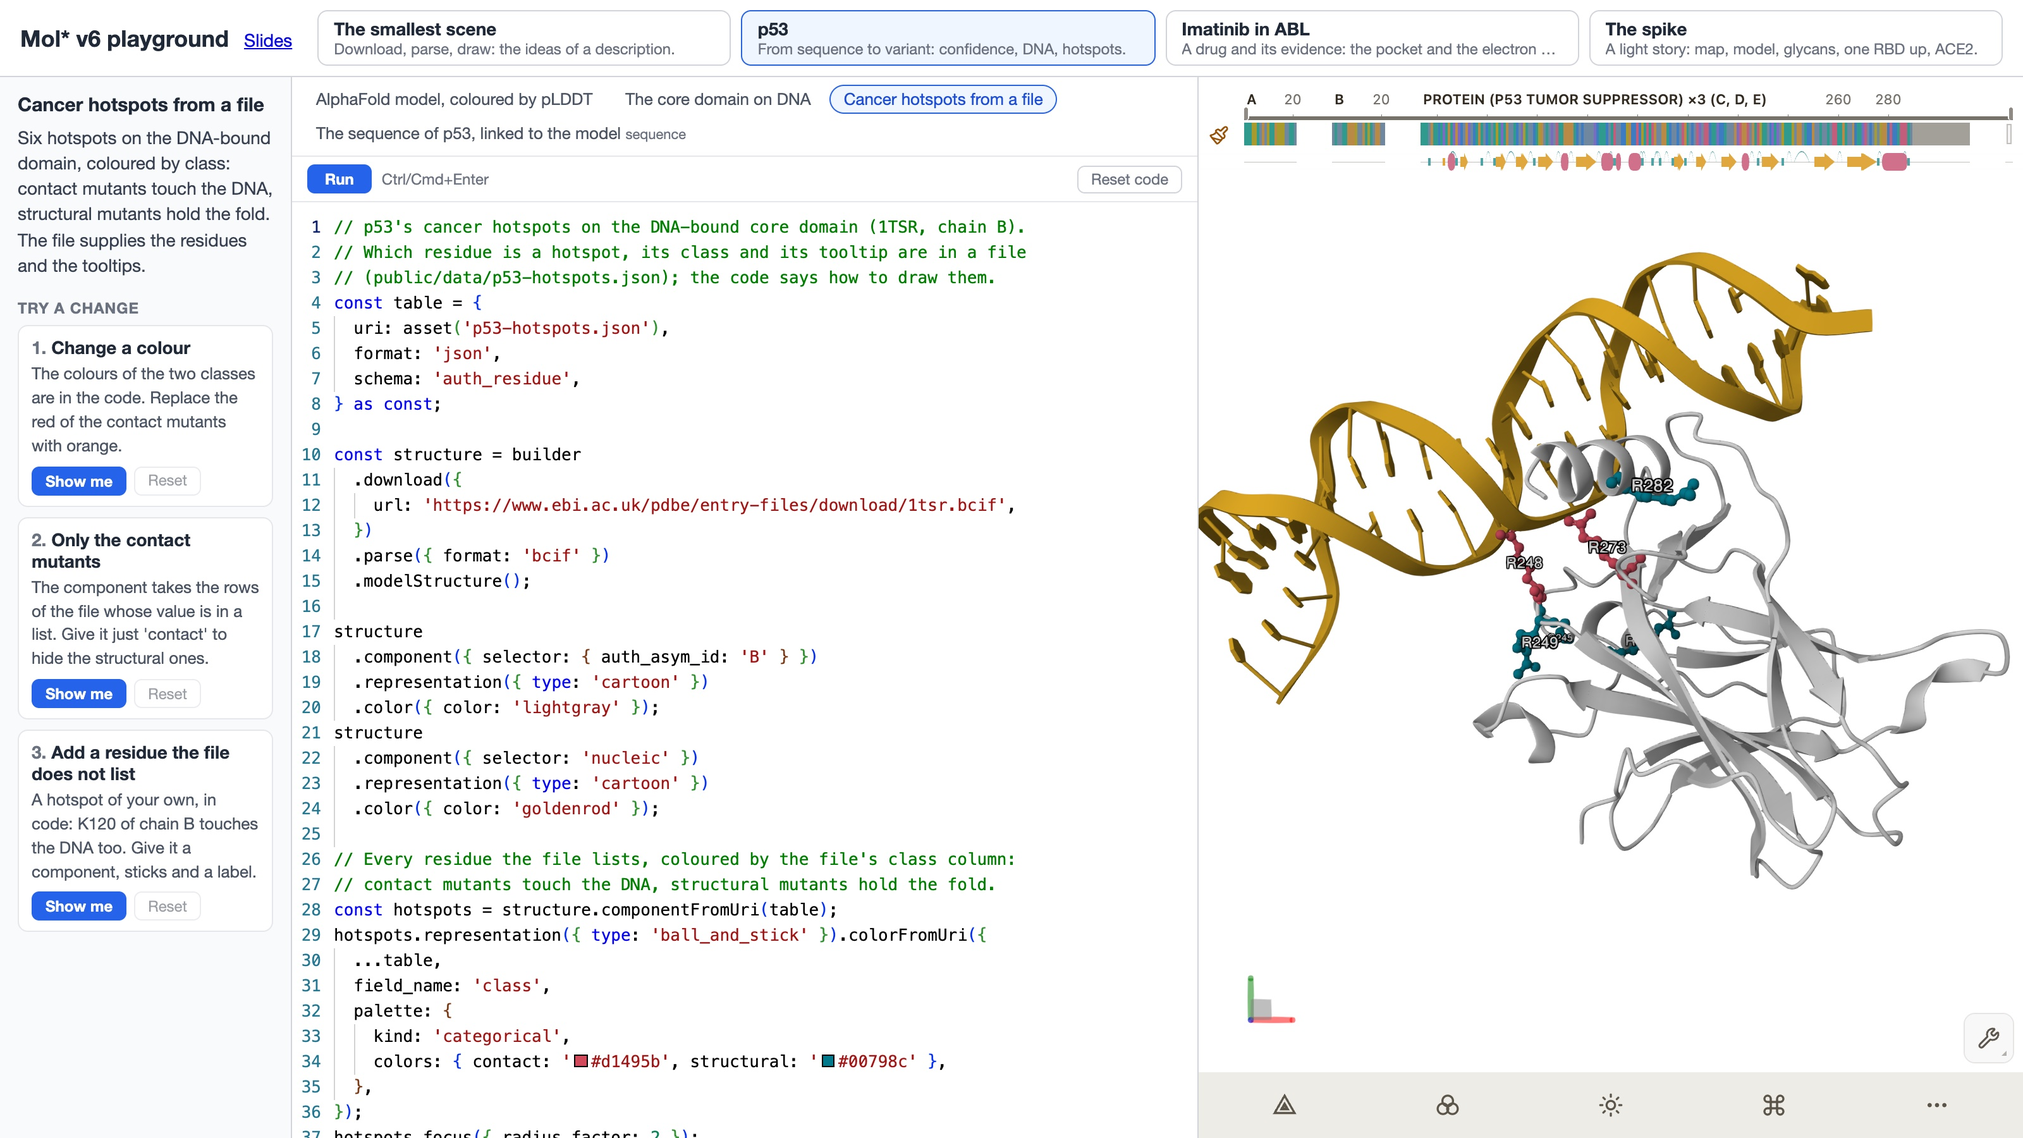
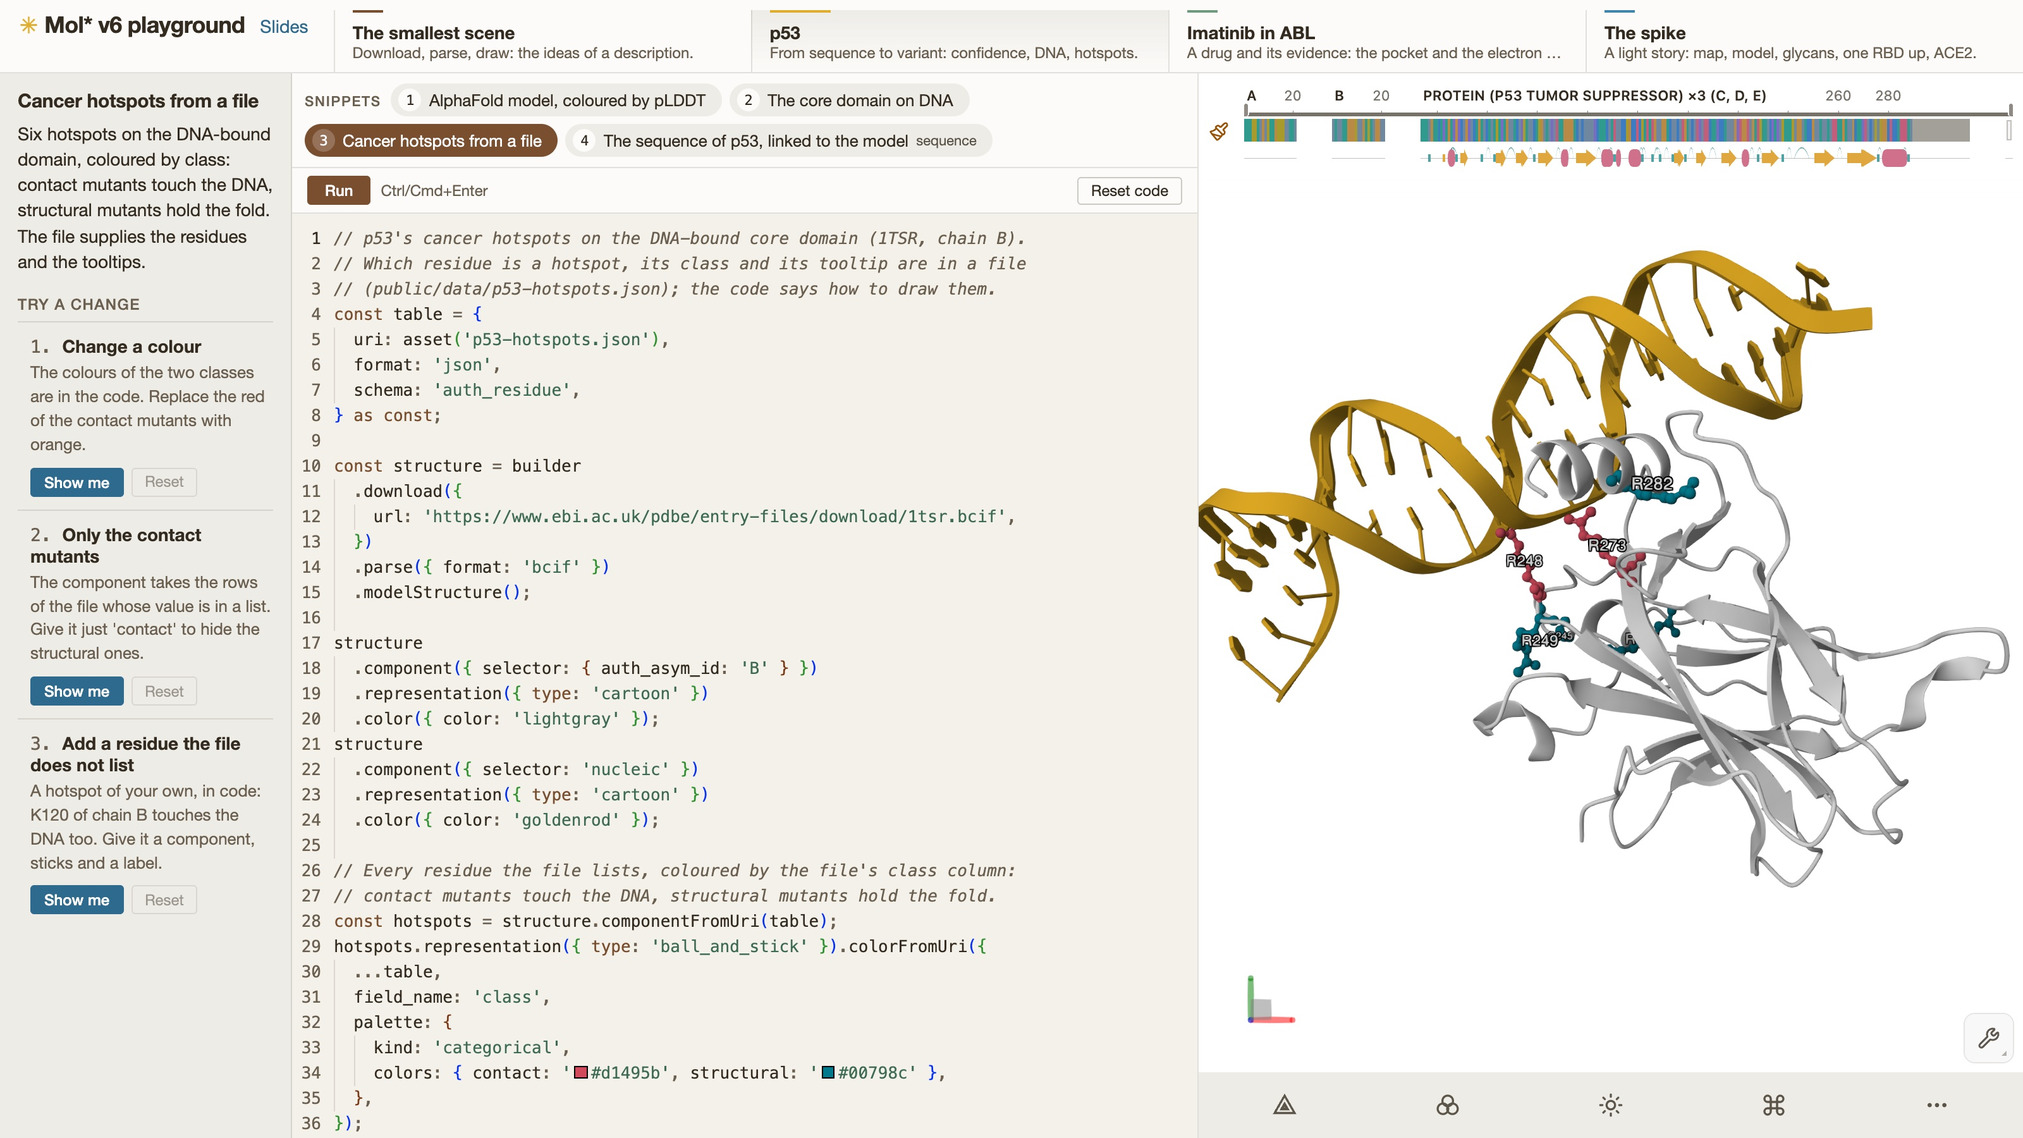
struct-bioinf-2026: drop the 'describe, don't click' narrative; clickable tour; new playground shot
- part 2 is 'How it fits together' and its diagram slide 'Data,
  descriptions, viewers'; the 'State, not steps' slide and the slogan in
  the opening, the Mol* v6 slide and the closing are gone
- the Prism tour's items take you to their step when clicked
- the playground screenshot shows the new style

diff --git a/examples/struct-bioinf-2026/src/slides/slides.css b/examples/struct-bioinf-2026/src/slides/slides.css
@@ -40,20 +40,20 @@
   --part-ink: var(--app-brown);
 }
 
-.reveal .slides > section[data-part='2'],
-.reveal .slides > section[data-part='3'] {
+.reveal .slides > section[data-part="2"],
+.reveal .slides > section[data-part="3"] {
   --part: var(--app-gold);
   --part-ink: var(--app-gold-text);
 }
 
-.reveal .slides > section[data-part='4'],
-.reveal .slides > section[data-part='5'] {
+.reveal .slides > section[data-part="4"],
+.reveal .slides > section[data-part="5"] {
   --part: var(--app-sage);
   --part-ink: var(--app-sage-text);
 }
 
-.reveal .slides > section[data-part='6'],
-.reveal .slides > section[data-part='7'] {
+.reveal .slides > section[data-part="6"],
+.reveal .slides > section[data-part="7"] {
   --part: var(--app-steel);
   --part-ink: var(--app-steel-text);
 }
@@ -125,7 +125,7 @@ body {
 /* The wordmark's spectrum as a thin rule under every slide title. */
 .reveal h1::after,
 .reveal h2::after {
-  content: '';
+  content: "";
   display: block;
   width: 120px;
   max-width: 40%;
@@ -176,7 +176,7 @@ body {
 }
 
 .reveal .part-tag::before {
-  content: '\2733\00a0';
+  content: "\2733\00a0";
   color: var(--part);
 }
 
@@ -415,7 +415,7 @@ body {
 }
 
 .reveal .points li::before {
-  content: '\2733';
+  content: "\2733";
   position: absolute;
   left: 0;
   top: 0.12em;
@@ -466,7 +466,7 @@ body {
 }
 
 .reveal .card::before {
-  content: '';
+  content: "";
   width: 28px;
   height: 2px;
   margin-bottom: 0.45em;
@@ -700,27 +700,27 @@ body {
   opacity: 0.62;
 }
 
-.reveal .parts-map[data-current='3'] .node[data-parts~='3'],
-.reveal .parts-map[data-current='4'] .node[data-parts~='4'],
-.reveal .parts-map[data-current='5'] .node[data-parts~='5'],
-.reveal .parts-map[data-current='6'] .node[data-parts~='6'] {
+.reveal .parts-map[data-current="3"] .node[data-parts~="3"],
+.reveal .parts-map[data-current="4"] .node[data-parts~="4"],
+.reveal .parts-map[data-current="5"] .node[data-parts~="5"],
+.reveal .parts-map[data-current="6"] .node[data-parts~="6"] {
   opacity: 1;
 }
 
 /* The lit cards take the part's color (the slide's \`--part\`): its edge, and its ink on the title. */
-.reveal .parts-map[data-current='3'] .node[data-parts~='3'] .dg-box,
-.reveal .parts-map[data-current='4'] .node[data-parts~='4'] .dg-box,
-.reveal .parts-map[data-current='5'] .node[data-parts~='5'] .dg-box,
-.reveal .parts-map[data-current='6'] .node[data-parts~='6'] .dg-box {
+.reveal .parts-map[data-current="3"] .node[data-parts~="3"] .dg-box,
+.reveal .parts-map[data-current="4"] .node[data-parts~="4"] .dg-box,
+.reveal .parts-map[data-current="5"] .node[data-parts~="5"] .dg-box,
+.reveal .parts-map[data-current="6"] .node[data-parts~="6"] .dg-box {
   fill: #fff;
   stroke: var(--part);
   stroke-width: 2.5;
 }
 
-.reveal .parts-map[data-current='3'] .node[data-parts~='3'] .dg-title,
-.reveal .parts-map[data-current='4'] .node[data-parts~='4'] .dg-title,
-.reveal .parts-map[data-current='5'] .node[data-parts~='5'] .dg-title,
-.reveal .parts-map[data-current='6'] .node[data-parts~='6'] .dg-title {
+.reveal .parts-map[data-current="3"] .node[data-parts~="3"] .dg-title,
+.reveal .parts-map[data-current="4"] .node[data-parts~="4"] .dg-title,
+.reveal .parts-map[data-current="5"] .node[data-parts~="5"] .dg-title,
+.reveal .parts-map[data-current="6"] .node[data-parts~="6"] .dg-title {
   fill: var(--part-ink);
 }
 
@@ -1070,20 +1070,6 @@ body {
   flex: 1;
 }
 
-.reveal .clicks {
-  columns: 2;
-  column-gap: 1.2em;
-  margin: 0;
-  padding: 0 0 0 1.8em;
-  font-size: 0.8em;
-  line-height: 1.35;
-  color: var(--slide-muted);
-}
-
-.reveal .clicks li {
-  break-inside: avoid;
-}
-
 .reveal table.schema {
   border-collapse: collapse;
   font-size: 0.85em;
@@ -1220,6 +1206,14 @@ body {
   line-height: 1.25;
 }
 
+.reveal .tour-list li {
+  cursor: pointer;
+}
+
+.reveal .tour-list li:not(.current):hover strong {
+  color: var(--app-brown);
+}
+
 .reveal .tour-list li.current {
   border-left-color: var(--part);
   background: var(--app-panel);
@@ -1305,7 +1299,7 @@ body {
 }
 
 .reveal .callout::before {
-  content: '\2733';
+  content: "\2733";
   position: absolute;
   left: 0;
   top: -0.08em;

diff --git a/examples/struct-bioinf-2026/src/slides/principles.ts b/examples/struct-bioinf-2026/src/slides/principles.ts
@@ -19,74 +19,6 @@ function codePanel(label: string, code: string, language: CodeLanguage | 'plain'
   return `<div class="stack panel"><span class="code-label">${escapeHtml(label)}</span><pre class="code plain ${className}"><code>${html}</code></pre></div>`;
 }
 
-// --- part 2: state, not steps ----------------------------------------------------------------------------------------------
-
-const Clicks = [
-  'Home → open by PDB ID',
-  'Type 1IEP',
-  'Apply, wait for the download',
-  'Open the Structure panel',
-  'Select the polymer component',
-  'Open its menu',
-  'Representation: Cartoon',
-  'Open Color',
-  'Choose Uniform',
-  'Pick a gray',
-  'Components → Add',
-  'Pick Ligand',
-  'Name it STI',
-  'Representation: Ball & Stick',
-  'Color: Element symbol',
-  'Open Selection mode',
-  'Click residue T315',
-  'Add to selection',
-  'Labels → Add',
-  'Type T315, choose a size',
-  'Color the selection',
-  'Pick red',
-  'Open Canvas settings',
-  'Background: white',
-  'Rotate the view',
-  'Zoom in',
-  'Add a snapshot',
-  'Open Export',
-  'Image, then PNG',
-  'Save the session, if you remember',
-];
-
-const StateCode = `const s = builder
-  .download({ url: '…/1iep.bcif' })
-  .parse({ format: 'bcif' })
-  .modelStructure();
-s.component({ selector: { auth_asym_id: 'A' } })
-  .representation({ type: 'cartoon' })
-  .color({ color: 'lightgray' });
-s.component({ selector: 'ligand' })
-  .representation({ type: 'ball_and_stick' });`;
-
-export function stateNotSteps(part: number): string {
-  const lines = StateCode.split('\n').length;
-  return slide({
-    part,
-    notes: notes(
-      'Principle: <strong>state, not steps</strong>. The same figure, 1IEP with the protein in gray and imatinib as sticks, two ways.',
-      'On the left, what you do in a classic UI: about thirty clicks, each one a step. If you want the figure again tomorrow, or want a colleague to make the same one, you have to remember or write down the steps, and the order matters.',
-      `On the right, the description: ${lines} lines that say what the figure <em>is</em>. It is a state, not a recipe. A state can be <strong>replayed</strong> (load it again and get the same figure), <strong>diffed</strong> (change the colour and the difference is one line in a text diff) and <strong>shared</strong> (it is a file, or a link).`,
-    ),
-    body: `
-      <h2>State, not steps</h2>
-      <p class="lead">The same figure: 1IEP, the protein gray, imatinib as sticks.</p>
-      ${stage(`<div class="two-col">
-        <div class="stack panel">
-          <span class="code-label">THE CLASSIC UI: ABOUT 30 CLICKS, IN ORDER</span>
-          <ol class="clicks">${Clicks.map((c) => `<li>${escapeHtml(c)}</li>`).join('')}</ol>
-        </div>
-        ${codePanel(`A DESCRIPTION: ${lines} LINES`, StateCode, 'ts')}
-      </div>
-      <div class="resources"><span>replay it</span><span>diff it</span><span>share it</span></div>`)}`,
-  });
-}
-
 // --- part 3: how a selection is written --------------------------------------------------------------------------------------
 
 // One selection, the P-loop of ABL (1IEP chain A, L248–V256), three ways; checked on 1IEP: the MolScript and the PyMOL

diff --git a/examples/struct-bioinf-2026/src/slides/parts/part0.ts b/examples/struct-bioinf-2026/src/slides/parts/part0.ts
@@ -17,7 +17,7 @@ import { qrSvg } from '../qr.js';
 const Plan: readonly { min: string; name: string }[] = [
   { min: '0–2', name: 'Opening' },
   { min: '2–9', name: 'The new viewer: Prism' },
-  { min: '9–11', name: "Describe, don't click" },
+  { min: '9–11', name: 'How it fits together' },
   { min: '11–19', name: 'MolViewSpec, example A: p53' },
   { min: '19–25', name: 'Sequences: Seq*, SeqViewSpec' },
   { min: '25–30', name: 'Volumes, example B: imatinib' },
@@ -40,7 +40,7 @@ export function part0(): string {
       <div class="title-splash"></div>
       ${notes(
         'Welcome. I will not teach you how to click in Mol*: most of you have seen it in PDBe, EMDB or AlphaFold DB pages.',
-        'The message of the hour, in one line: <strong>your figure is a description, not a set of clicks</strong>. You describe it once as a short spec, and then the same description runs in a web page, a notebook, a paper supplement or a story.',
+        'The hour in one line: how to use Mol* to show your structures, sequences, maps and annotations, from the new viewer to scenes you can write, share and reuse.',
         'Everything today runs in your browser. Nothing to install. The playground link comes on the next-but-one slide and again at the end.',
       )}
     </section>`,
@@ -76,7 +76,6 @@ export function part0(): string {
         '- <strong>MolViewSpec</strong> and <strong>SeqViewSpec</strong>: descriptions of a 3D scene and of a sequence view.',
         '- <strong>MolQL</strong>: a language to say what you select, so that it means the same everywhere.',
         '- The <strong>data</strong>: the volume server and annotations.',
-        'If you remember one sentence: your figure is a description, not a set of clicks.',
       ),
       body: `
         <h2>Mol* v6: a rebuild of what surrounds the renderer</h2>
@@ -86,8 +85,7 @@ export function part0(): string {
           <div class="card"><h3>Descriptions</h3><p>MolViewSpec for 3D, SeqViewSpec for sequences.</p></div>
           <div class="card"><h3>Selections</h3><p>MolQL: what to select, as a language.</p></div>
           <div class="card"><h3>Data</h3><p>The volume server and annotation files.</p></div>
-        </div>
-        <p class="big-statement">Your figure is <strong>a description</strong>, not a set of clicks.</p>`)}`,
+        </div>`)}`,
     }),
 
     slide({

diff --git a/examples/struct-bioinf-2026/src/slides/tour.ts b/examples/struct-bioinf-2026/src/slides/tour.ts
@@ -38,7 +38,7 @@ async function call(what: string, run: () => Promise<{ ok: boolean; message?: st
   }
 }
 
-export const tourScene: LiveScene = async (el) => {
+export const tourScene: LiveScene = async (el, deck) => {
   const container = el.querySelector<HTMLElement>('.live-viewer');
   const items = [...el.querySelectorAll<HTMLElement>('.tour-list li')];
   const steps = [...el.querySelectorAll<HTMLElement>('.tour-step')];
@@ -177,6 +177,15 @@ export const tourScene: LiveScene = async (el) => {
   };
   deckRoot.addEventListener('fragmentshown', onFragment);
   deckRoot.addEventListener('fragmenthidden', onFragment);
+  // A click on an item goes to its step: item n is shown once n fragments are (the first by none); reveal counts its
+  // fragments from 0, so that is fragment n - 1. The deck, the list and the viewer move as with the arrows.
+  const onItem = (e: MouseEvent) => {
+    const li = (e.target as HTMLElement).closest<HTMLElement>('.tour-list li');
+    if (!li) return;
+    const { h, v } = deck.getIndices();
+    deck.slide(h, v, Number(li.dataset.step) - 1);
+  };
+  el.addEventListener('click', onItem);
   shown = steps.filter((f) => f.classList.contains('visible')).length;
   paint();
 
@@ -206,6 +215,7 @@ export const tourScene: LiveScene = async (el) => {
     disposed = true;
     deckRoot.removeEventListener('fragmentshown', onFragment);
     deckRoot.removeEventListener('fragmenthidden', onFragment);
+    el.removeEventListener('click', onItem);
     await embedded.dispose();
   };
 };

diff --git a/examples/struct-bioinf-2026/src/slides/parts/part2.ts b/examples/struct-bioinf-2026/src/slides/parts/part2.ts
@@ -11,9 +11,8 @@ import { partsMap } from '../diagrams.js';
 import { escapeHtml, notes, slide, stage } from '../html.js';
 import { playgroundUrl } from '../links.js';
 import { qrSvg } from '../qr.js';
-import { stateNotSteps } from '../principles.js';
 
-// Part 2, Describe, don't click (outline.md §2, 2 min). The diagram comes back as the map of parts 3–6.
+// Part 2, How it fits together (outline.md §2, 2 min). The diagram comes back as the map of parts 3–6.
 
 export function part2(): string {
   return [
@@ -59,12 +58,10 @@ export function part2(): string {
         'The point: the description in the middle is independent of what is on either side. Same description, different data, different viewer.',
       ),
       body: `
-        <h2>Describe, don't click</h2>
+        <h2>Data, descriptions, viewers</h2>
         <p class="lead">A description says what to load, what to show and what it means. Viewers draw it.</p>
         ${stage(partsMap())}`,
     }),
-
-    stateNotSteps(2),
 
     slide({
       part: 2,

diff --git a/examples/struct-bioinf-2026/src/slides/parts/part7.ts b/examples/struct-bioinf-2026/src/slides/parts/part7.ts
@@ -100,7 +100,7 @@ export function part7(): string {
           <li><span class="what">Cite Mol*</span>${link(Links.molstarPaper, 'Sehnal et al., Nucleic Acids Res. 2021, doi:10.1093/nar/gkab314')}</li>
           <li><span class="what">Cite MolViewStories</span>${link(Links.viewStoriesPaper, 'Slanináková et al., Protein Science 2026, doi:10.1002/pro.70540')}</li>
         </ul>
-        <p class="big-statement">Your figure is <strong>a description</strong>. Thank you, and questions.</p>`)}`,
+        <p class="big-statement">Thank you, and questions.</p>`)}`,
     }),
   ].join('');
 }

diff --git a/examples/struct-bioinf-2026/src/slides/diagrams.ts b/examples/struct-bioinf-2026/src/slides/diagrams.ts
@@ -60,7 +60,7 @@ const Columns: readonly MapColumn[] = [
 ];
 
 /**
- * "Describe, don't click" (outline.md §2): data, descriptions (written in TypeScript or Python), viewers and outputs: three
+ * The map of the talk (outline.md §2): data, descriptions (written in TypeScript or Python), viewers and outputs: three
  * tinted columns of cards of one size, one arrow between each two. With `current` (3–6) the cards that part deals with are
  * lit and the rest are quieter (still readable): the map at the start of parts 3–6; without it, all are the same.
  */

diff --git a/examples/struct-bioinf-2026/src/slides/html.ts b/examples/struct-bioinf-2026/src/slides/html.ts
@@ -16,7 +16,7 @@ export const escapeHtml = (text: string) => text.replace(/&/g, '&amp;').replace(
 export const PartNames = [
   'Opening',
   'The new viewer: Prism',
-  "Describe, don't click",
+  'How it fits together',
   'MolViewSpec',
   'Sequences',
   'Volumes',

diff --git a/examples/struct-bioinf-2026/_spec/outline.md b/examples/struct-bioinf-2026/_spec/outline.md
@@ -14,10 +14,10 @@ MD (Harris).
 
 ## Message
 
-Your figure is a description, not a set of clicks. Describe it once as a short spec: what to load, what to show, what it
-means. Then the same description runs in a web page, a notebook, a paper's supplement or a story. Mol\* v6 provides the
-viewer (Prism), the descriptions (MolViewSpec for 3D, SeqViewSpec for sequences), the selections (MolQL, SeqQL) and the
-data (volume server, annotations).
+How to use Mol* to show structures, sequences, maps and annotations. A scene can be written once as a short spec: what
+to load, what to show, what it means. Then the same description runs in a web page, a notebook, a paper's supplement or
+a story. Mol\* v6 provides the viewer (Prism), the descriptions (MolViewSpec for 3D, SeqViewSpec for sequences), the
+selections (MolQL, SeqQL) and the data (volume server, annotations).
 
 ## Timing (≈45 min talk, ≈15 min questions)
 
@@ -25,7 +25,7 @@ data (volume server, annotations).
 | ----- | ------------------------------------- | -------------------------- |
 | 0–2   | 0. Opening                            | slides                     |
 | 2–9   | 1. The new viewer: Prism              | live in Prism              |
-| 9–11  | 2. Describe, don't click              | slides (one diagram)       |
+| 9–11  | 2. How it fits together               | slides (one diagram)       |
 | 11–19 | 3. MolViewSpec + example A (p53)      | slides with live snippets  |
 | 19–25 | 4. Sequences: Seq\*, SeqViewSpec      | slides with live snippets  |
 | 25–30 | 5. Volumes + example B (imatinib)     | slides with live snippets  |
@@ -64,7 +64,7 @@ and scripts call the same operations.
 Slide: classic UI vs Prism, one live box with both viewers cross-faded (a step and a slider), with 3–4 differences
 named. Fallback: a 60 s recording of the demo.
 
-## 2. Describe, don't click (2 min)
+## 2. How it fits together (2 min)
 
 One diagram, used again as the map for the rest of the talk:
 
@@ -195,7 +195,7 @@ with its part's tag.
 | ---- | ----------------------------------------------------------------------------------------------------------------------------------------------------------------------------------------------------------------------------------------------------------------------------------------------------------------------------------------------------------------------------- |
 | 0    | title, "Using Mol\* to visualise your data" (with Prism's quantum splash) · why visualise (this talk shows, it does not compute) · Mol\* v6 · the plan with the playground QR code                                                                                                                                                                                            |
 | 1    | classic vs Prism (morph) · "What's better in Prism": the live viewer stepped through seven things (tree, selection, selection visuals, volumes, images and animations, Seq\*, command menu)                                                                                                                                                                                   |
-| 2    | the map of the talk · state, not steps · a description is a tree of steps                                                                                                                                                                                                                                                                                                     |
+| 2    | the map of the talk ("Data, descriptions, viewers") · a description is a tree of steps                                                                                                                                                                                                                                                                                        |
 | 3    | opener with the map · `basics-smallest` · `basics-selectors` · how a selection is written (schema, MolQL, PyMOL; the P-loop of 1IEP) · "Example: PyMOL selectors" (`basics-pymol`) · data stays outside the structure · `basics-annotations` · `basics-primitives` · portability · example A · `p53-af-plddt` · numbering · `p53-dna` · `p53-hotspots` · checked, not guessed |
 | 4    | opener · SeqViewSpec shape · `p53-sequence` (SeqQL is not shown)                                                                                                                                                                                                                                                                                                              |
 | 5    | opener · the volume server's principle · `imatinib-pocket` · `imatinib-density`                                                                                                                                                                                                                                                                                               |
